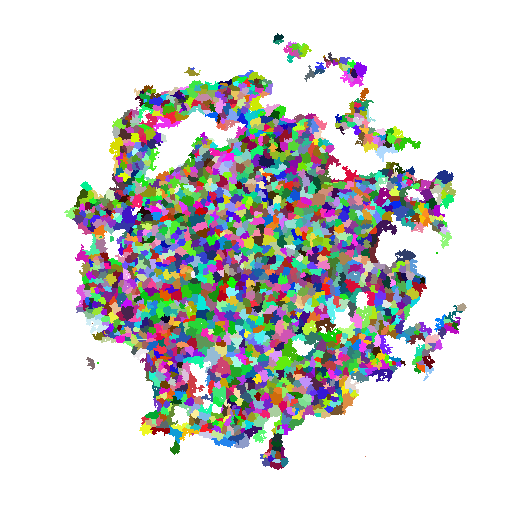
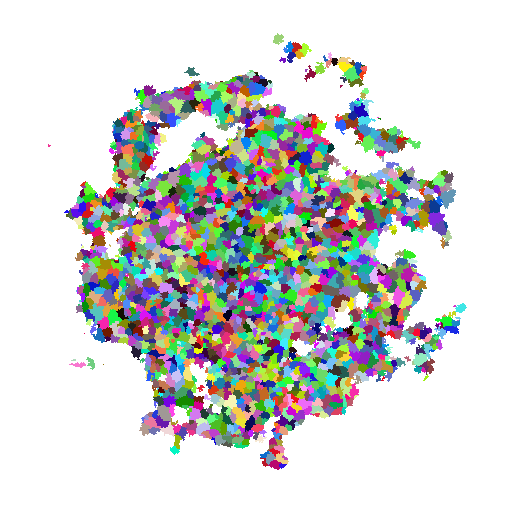
Add waters classification

diff --git a/src/map.rs b/src/map.rs
@@ -93,6 +93,11 @@ impl Ord for HeapItem {
     }
 }
 
+pub enum Water {
+    Sea,
+    Lake
+}
+
 pub struct ProvBuilder {
     noise: PerlinOctave,
     pub heightmap: Vec<f64>,
@@ -100,6 +105,7 @@ pub struct ProvBuilder {
     pub rainmap: Vec<f64>,
     pub rivermap: Vec<f64>,
     pub provmap: Vec<usize>,
+    pub waters: HashMap<usize, Water>,
     water_level: f64,
     water_taper: f64,
     temp_base: f64,
@@ -136,6 +142,7 @@ impl ProvBuilder {
             rainmap: Vec::new(),
             rivermap: Vec::new(),
             provmap: Vec::new(),
+            waters: HashMap::new(),
             water_level,
             water_taper,
             temp_base,
@@ -164,6 +171,43 @@ impl ProvBuilder {
                 };
 
                 self.heightmap.push(val * val);
+            }
+        }
+    }
+
+    pub fn gen_waters(&mut self) {
+        let size = self.noise.size;
+        let mut stack = Vec::new();
+
+        stack.push(0);
+        self.waters.clear();
+
+        while !stack.is_empty() {
+            let i = stack.pop().unwrap();
+
+            if self.waters.contains_key(&i) || self.heightmap[i] > 0. {
+                continue;
+            }
+
+            self.waters.insert(i, Water::Sea);
+
+            if (i + 1) % size > 0 {
+                stack.push(i + 1);
+            }
+            if i % size > 0 {
+                stack.push(i - 1);
+            }
+            if i >= size {
+                stack.push(i - size);
+            }
+            if i + size < size * size {
+                stack.push(i + size);
+            }
+        }
+
+        for (i, &height) in self.heightmap.iter().enumerate() {
+            if height == 0. && !self.waters.contains_key(&i) {
+                self.waters.insert(i, Water::Lake);
             }
         }
     }
@@ -344,14 +388,23 @@ impl ProvBuilder {
                             .iter()
                             .map(|(ii, c)| {
                                 let ii = (i as isize + ii) as usize;
-                                (ii, (100. * c * (5f64.powf(self.heightmap[ii] - self.heightmap[i]) - 0.2)) as usize)
+                                (ii, (10000. * c * (self.heightmap[ii] / (self.heightmap[i] + 0.001))) as usize)
                             })
                             .collect();
                         
                         return choices;
                     },
                     |&i| {
-                        river_drainage[i] != 0 || self.heightmap[i] == 0.
+                        if river_drainage[i] != 0 {
+                            return true;
+                        } else if let Some(water) = self.waters.get(&i) {
+                            match water {
+                                Water::Lake => return false,
+                                Water::Sea => return true,
+                            };
+                        }
+
+                        return false;
                     }
                 ).unwrap();
                 
@@ -424,7 +477,7 @@ impl ProvBuilder {
             }
         }
 
-        for _ in 0..((self.prov_num as f64).sqrt() as usize + 2) {
+        for _ in 0..((self.prov_num as f64).sqrt() as usize + 5) {
             let mut provmap_new = Vec::new();
 
             for prov in 0..self.prov_num {
@@ -470,7 +523,7 @@ impl ProvBuilder {
                     .iter()
                     .map(|(ii, c)| {
                         let ii = (i as isize + ii) as usize;
-                        (ii, c * (50f64.powf((self.heightmap[ii] - self.heightmap[i]).abs()) - 1.))
+                        (ii, c * (self.heightmap[i] - self.heightmap[ii]).abs() / (self.heightmap[i] + self.heightmap[ii]))
                     })
                     .filter(|&(ii, _)| self.heightmap[ii] > 0.)
                     .collect();
@@ -501,6 +554,28 @@ impl ProvBuilder {
                 i += 1;
 
                 img.put_pixel(x as u32, y as u32, Rgb([val, val, val]));
+            }
+        }
+
+        img.save(path.into()).unwrap();
+    }
+
+    pub fn export_waters<T: Into<PathBuf>>(&self, path: T) {
+        let mut i = 0;
+        let mut img = RgbImage::new(self.noise.size as u32, self.noise.size as u32);
+
+        for y in 0..self.noise.size {
+            for x in 0..self.noise.size {
+                if let Some(water) = self.waters.get(&i) {
+                    match water {
+                        Water::Lake => img.put_pixel(x as u32, y as u32, Rgb([128, 128, 128])),
+                        Water::Sea => img.put_pixel(x as u32, y as u32, Rgb([255, 255, 255])),
+                    }
+                } else {
+                    img.put_pixel(x as u32, y as u32, Rgb([0, 0, 0]));
+                }
+
+                i += 1;
             }
         }
 

diff --git a/src/main.rs b/src/main.rs
@@ -263,6 +263,9 @@ fn main() {
 
     map.gen_heightmap();
     map.export(&map.heightmap, "heightmap.png");
+    
+    map.gen_waters();
+    map.export_waters("waters.png");
 
     map.gen_rainmap();
     map.export(&map.rainmap, "rainmap.png");
